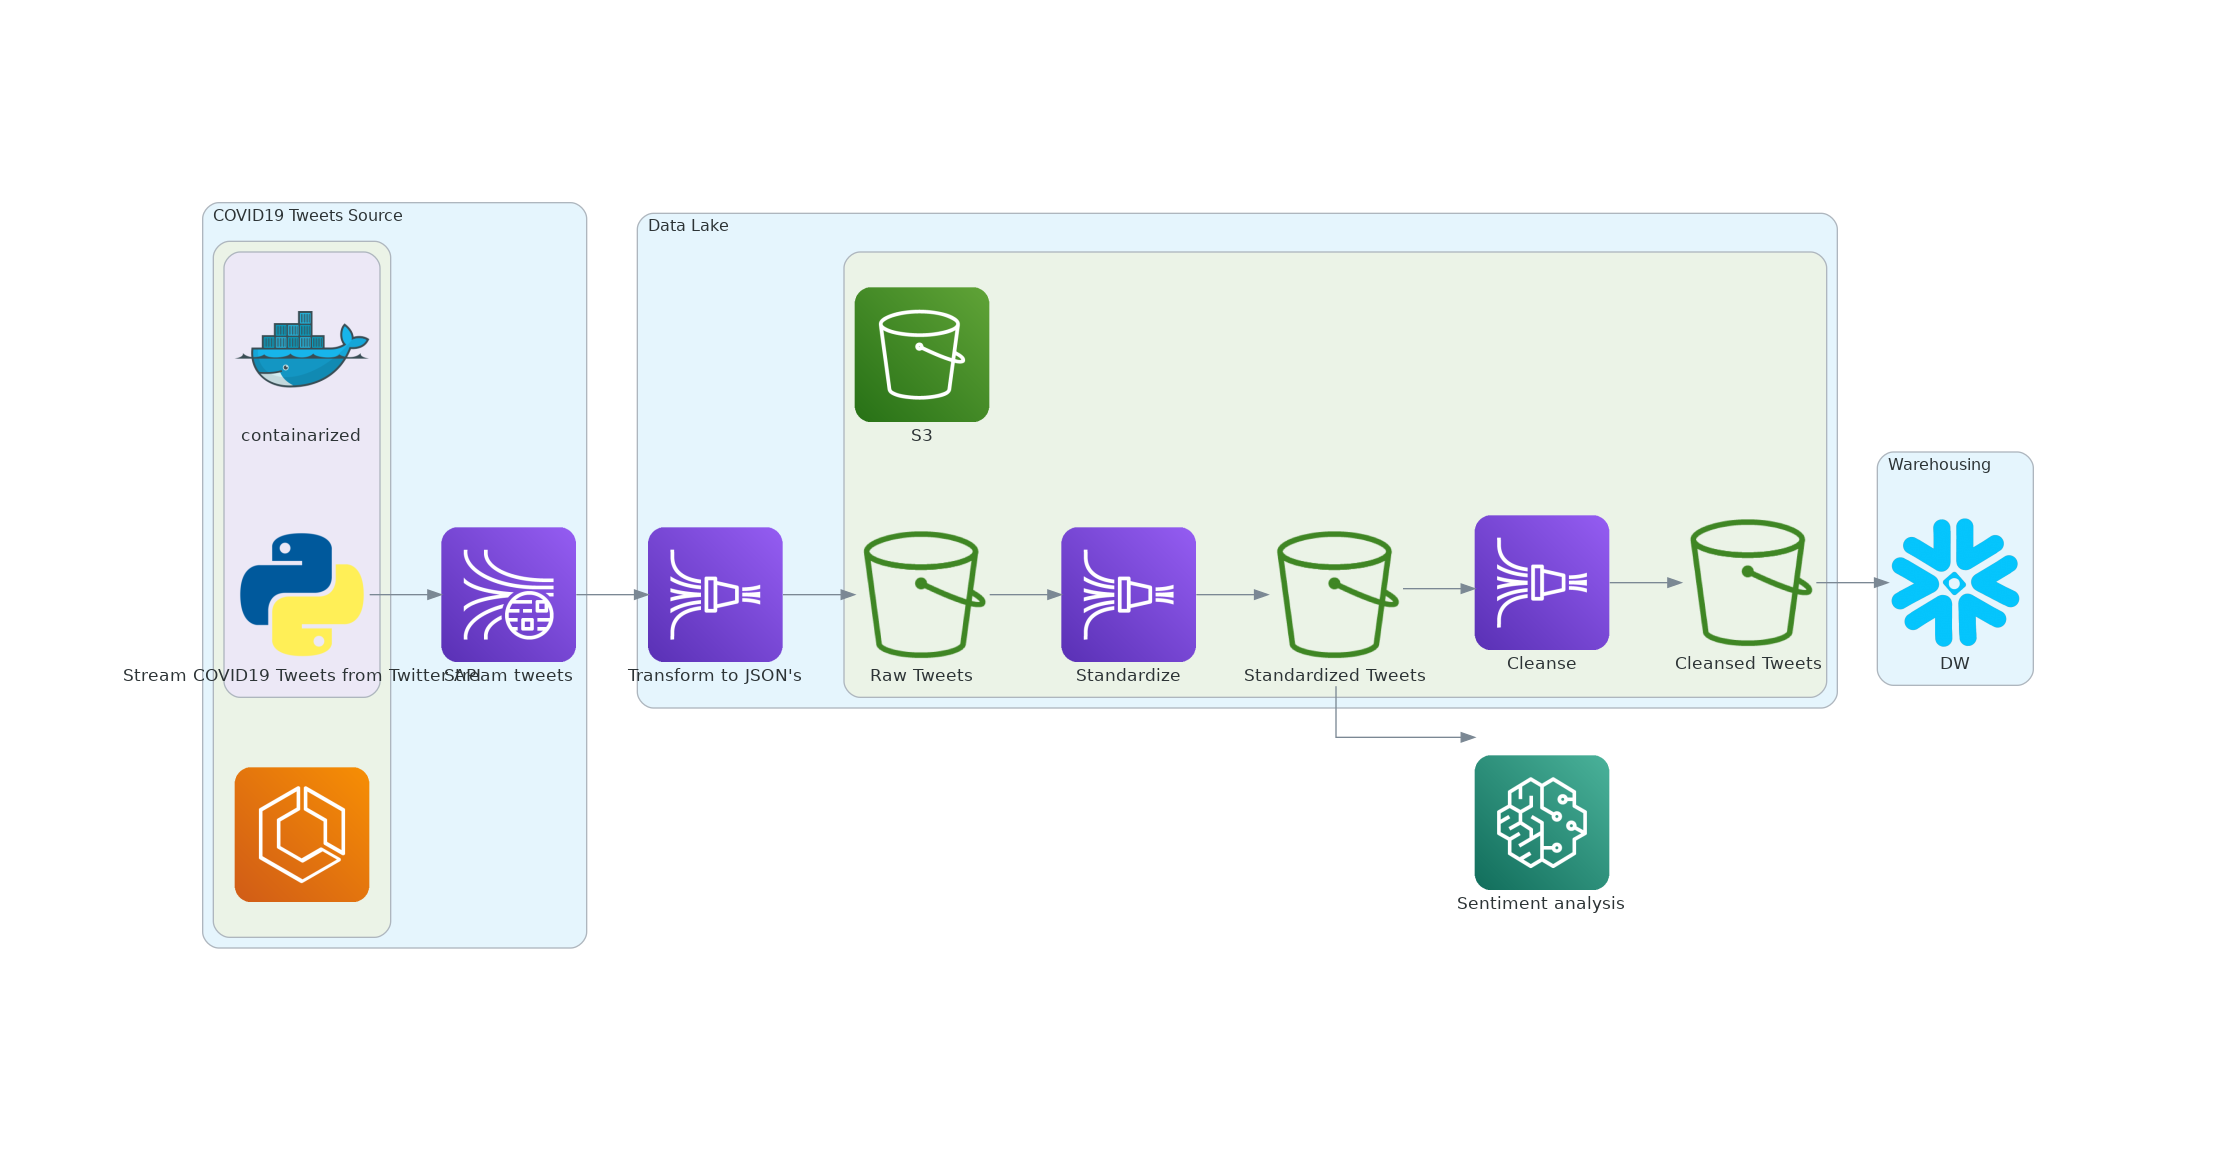
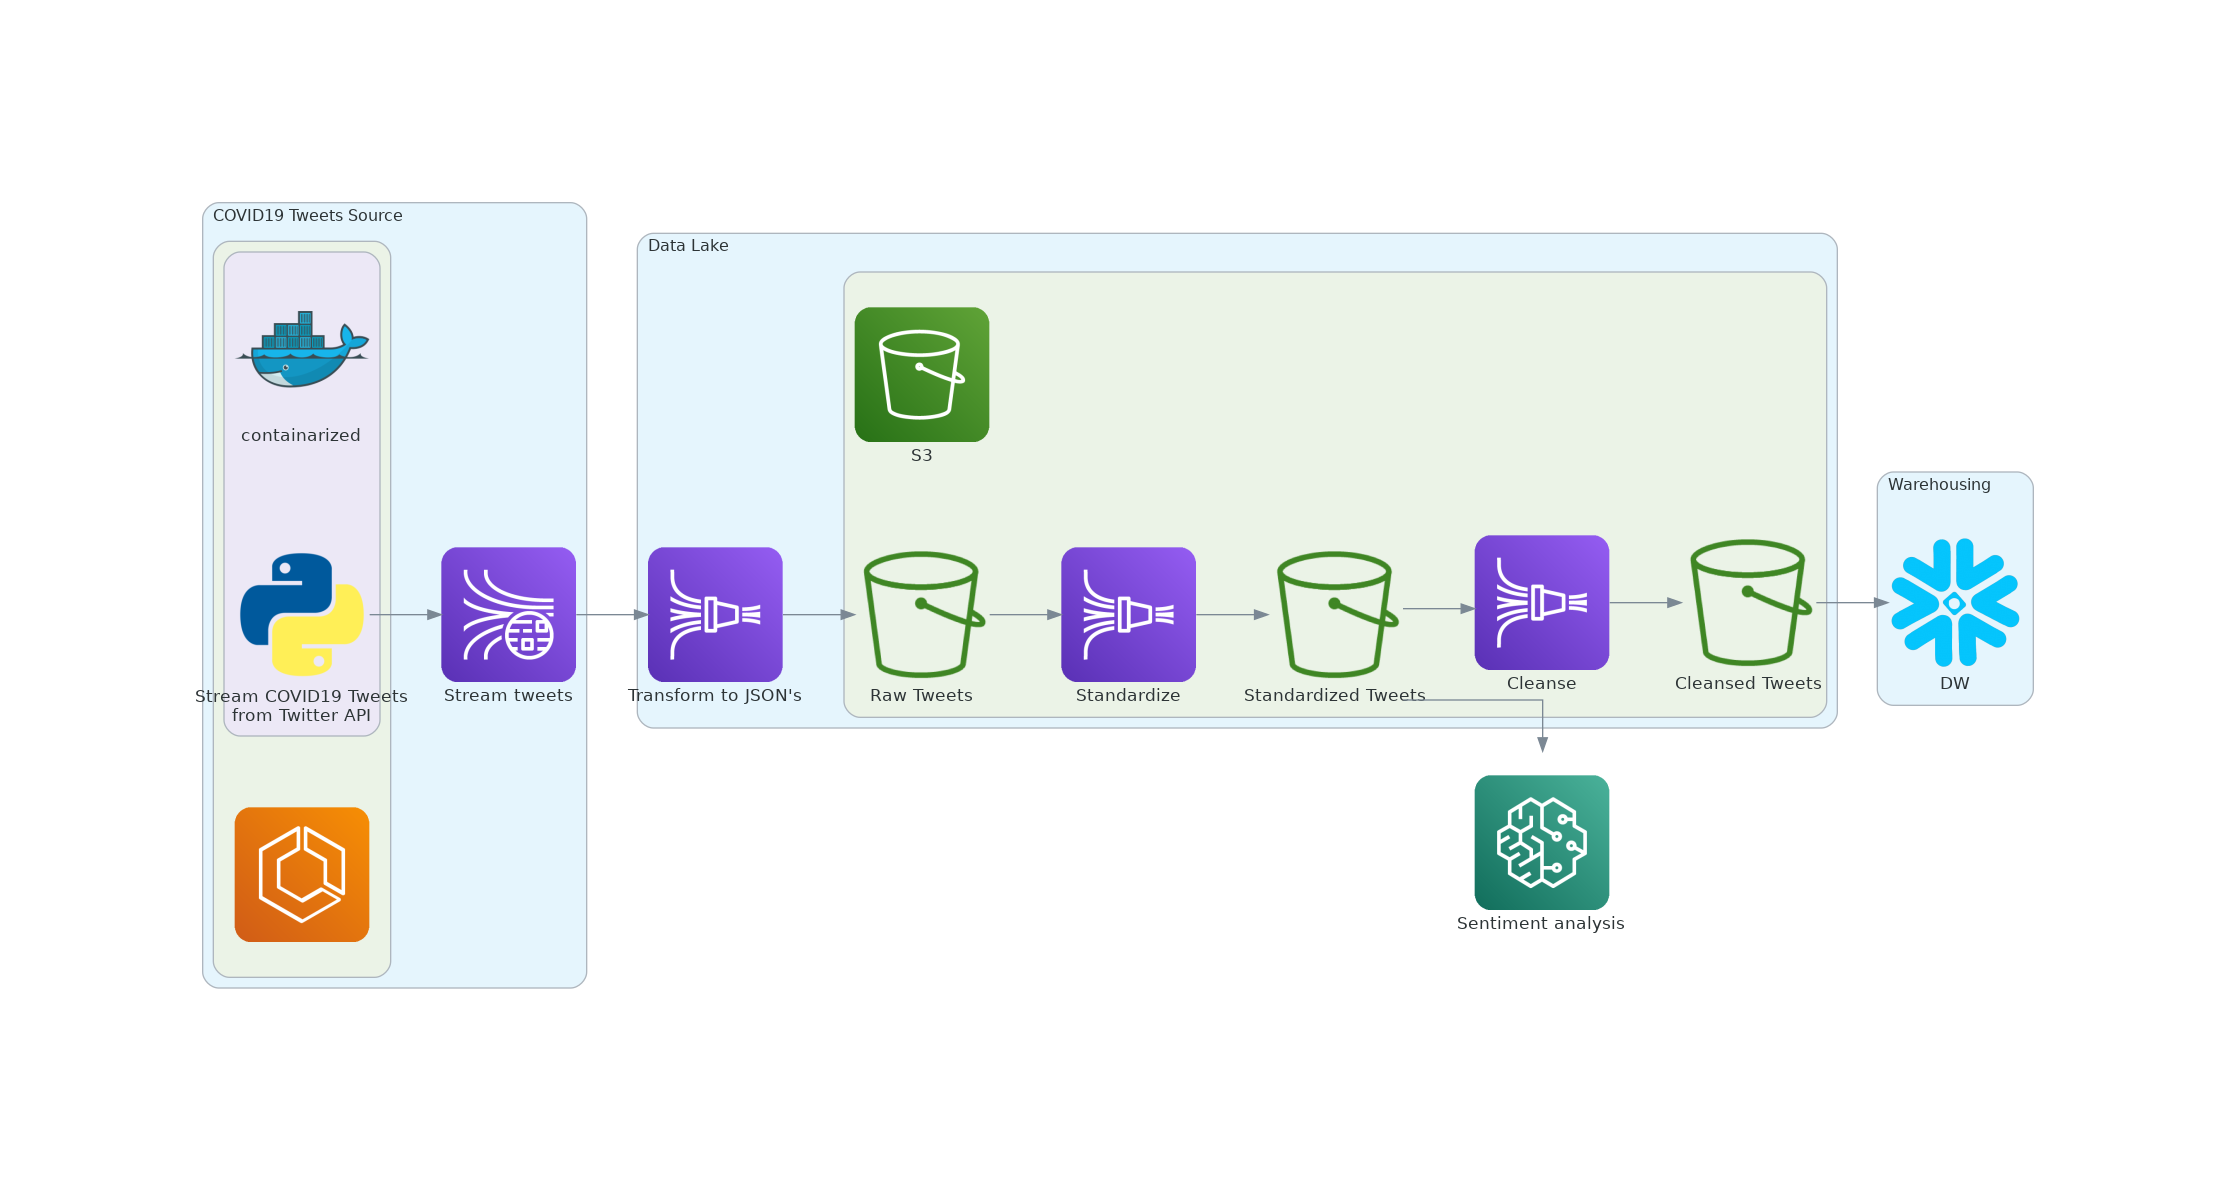
diagram improvements

diff --git a/diagram/diagram.py b/diagram/diagram.py
@@ -14,18 +14,18 @@ with Diagram(""):
             ecs = ECS("")
             with Cluster(""):
                 docker = Docker("containarized")
-                get_tweets = Python("Stream COVID19 Tweets from Twitter API")
+                get_tweets = Python("Stream COVID19 Tweets" + "\n" + "from Twitter API")
         # elb_tweets = aws.network.ELB("Load Balance streaming data")
         tweets_stream = KinesisDataStreams("Stream tweets")
     with Cluster("Data Lake"):
         tweets_firehose = KinesisDataFirehose("Transform to JSON's")
         with Cluster(""):
             s3staging = S3("S3")
-            raw_bucket = SimpleStorageServiceS3Bucket("Raw Tweets")
+            raw_bucket = SimpleStorageServiceS3Bucket("Raw")
             raw_to_standardzied = KinesisDataFirehose("Standardize")
-            standardized_bucket = SimpleStorageServiceS3Bucket("Standardized Tweets")
+            standardized_bucket = SimpleStorageServiceS3Bucket("Standardized")
             standardized_to_cleansed = KinesisDataFirehose("Cleanse")
-            cleansed_bucket = SimpleStorageServiceS3Bucket("Cleansed Tweets")
+            cleansed_bucket = SimpleStorageServiceS3Bucket("Cleansed")
     with Cluster("Warehousing"):
         snowflake = Snowflake("DW")
     sagemaker = Sagemaker("Sentiment analysis")
